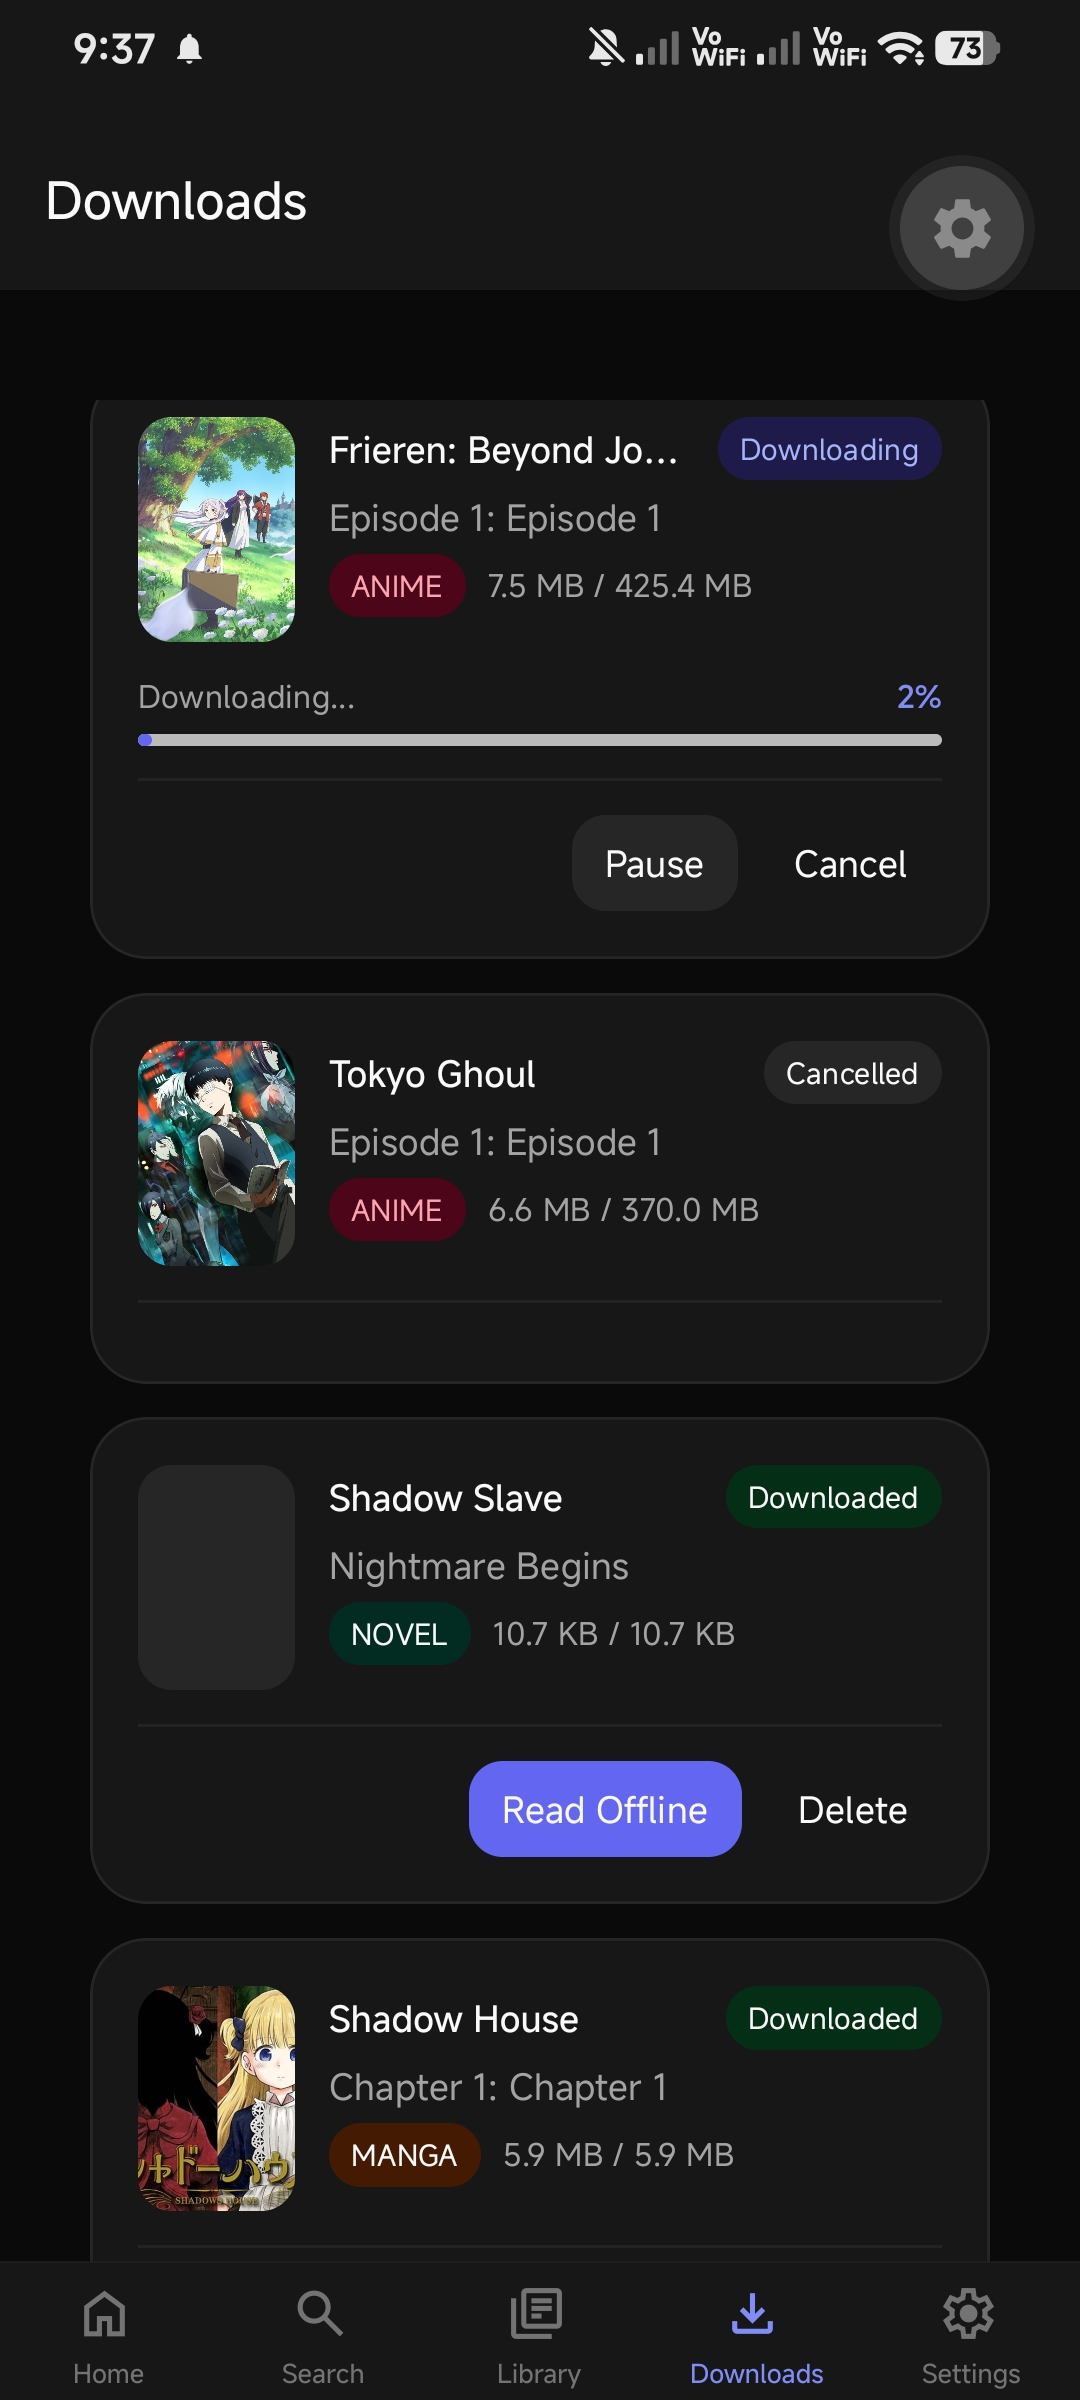
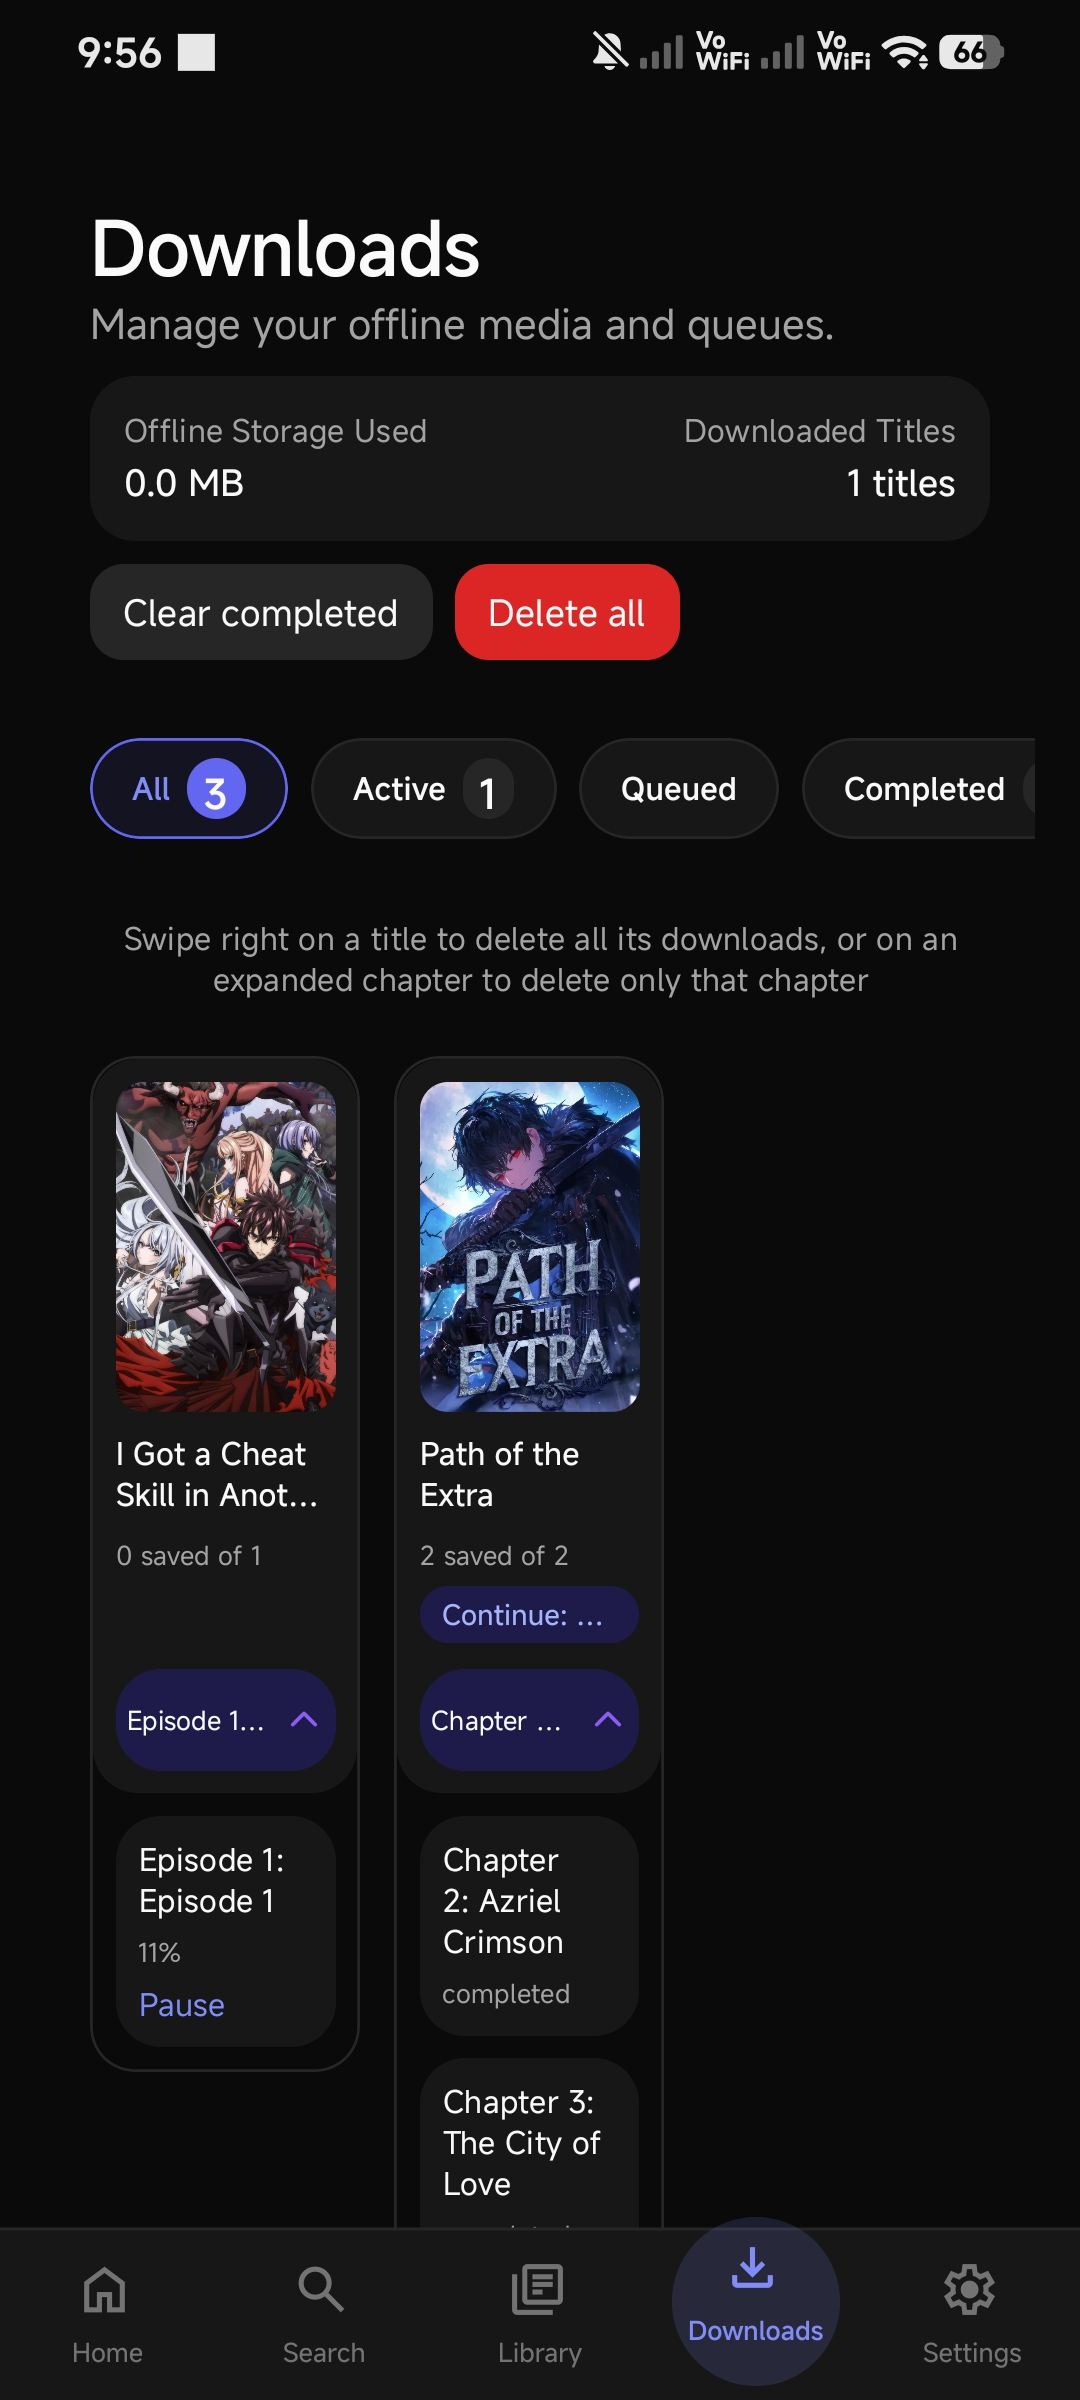
feat:README, navbar, and title card improvements

diff --git a/app/(tabs)/_layout.tsx b/app/(tabs)/_layout.tsx
@@ -1,7 +1,7 @@
 import { SlidingTabBar } from '@/components/navigation/SlidingTabBar';
-import { Platform } from 'react-native';
 import { Tabs } from 'expo-router';
 import type { SymbolViewProps } from 'expo-symbols';
+import { Platform } from 'react-native';
 
 import { TabBarIcon } from '@/components/navigation/TabBarIcon';
 import { useClientOnlyValue } from '@/components/useClientOnlyValue';
@@ -81,6 +81,7 @@ export default function TabLayout() {
         name="library"
         options={{
           title: 'Library',
+          headerShown: false,
           tabBarIcon: ({ color }) => <TabBarIcon color={color} name={libraryIcon} />,
         }}
       />
@@ -88,6 +89,7 @@ export default function TabLayout() {
         name="downloads"
         options={{
           title: 'Downloads',
+          headerShown: false,
           tabBarIcon: ({ color }) => <TabBarIcon color={color} name={downloadsIcon} />,
         }}
       />
@@ -95,6 +97,7 @@ export default function TabLayout() {
         name="settings"
         options={{
           title: 'Settings',
+          headerShown: false,
           tabBarIcon: ({ color }) => <TabBarIcon color={color} name={settingsIcon} />,
         }}
       />

diff --git a/app/(tabs)/settings.tsx b/app/(tabs)/settings.tsx
@@ -1,20 +1,20 @@
-import { appAlert as Alert } from '@/stores/dialogStore';
 import { PrivacySettings } from '@/components/content/PrivacyControls';
+import { PopPressable as Pressable } from '@/components/ui/PopPressable';
+import { appAlert as Alert } from '@/stores/dialogStore';
 import { useRouter } from 'expo-router';
 import { useState } from 'react';
 import { Switch, View } from 'react-native';
-import { PopPressable as Pressable } from '@/components/ui/PopPressable';
 
 import { UpdateModal } from '@/components/UpdateModal';
 import { Screen, Text } from '@/components/ui';
 import {
-  checkForUpdate,
-  getInstalledVersion,
-  type VersionManifest,
+    checkForUpdate,
+    getInstalledVersion,
+    type VersionManifest,
 } from '@/services/updateService';
 import {
-  useRollingDownloadSettingsStore,
-  type RollingDownloadWindow,
+    useRollingDownloadSettingsStore,
+    type RollingDownloadWindow,
 } from '@/stores/rollingDownloadSettingsStore';
 import { cn } from '@/utils/cn';
 

diff --git a/app/(tabs)/downloads.tsx b/app/(tabs)/downloads.tsx
@@ -1,7 +1,7 @@
-import { groupDownloads } from '@/services/downloadGroups';
 import { DownloadTitleCard } from '@/components/downloads/DownloadTitleCard';
-import { appAlert as Alert } from '@/stores/dialogStore';
 import { useHiddenPrivateIds } from '@/hooks/useHiddenPrivateIds';
+import { groupDownloads } from '@/services/downloadGroups';
+import { appAlert as Alert } from '@/stores/dialogStore';
 import { useMemo, useState } from 'react';
 import { View } from 'react-native';
 

diff --git a/README.md b/README.md
@@ -74,6 +74,12 @@ flowchart LR
 <p align="center">
   <img src="docs/images/sources.jpg" alt="Sources" width="180" />
   <img src="docs/images/settings.jpg" alt="Settings" width="180" />
+  <img src="docs/images/details2.jpg" alt="Details2" width="180" />
+  <img src="docs/images/library.jpg" alt="Library" width="180" />
+</p>
+<p align="center">
+  <img src="docs/images/notification.jpg" alt="Notification" width="180" />
+  <img src="docs/images/search2.jpg" alt="Search2" width="180" />
 </p>
 
 ## Demo
